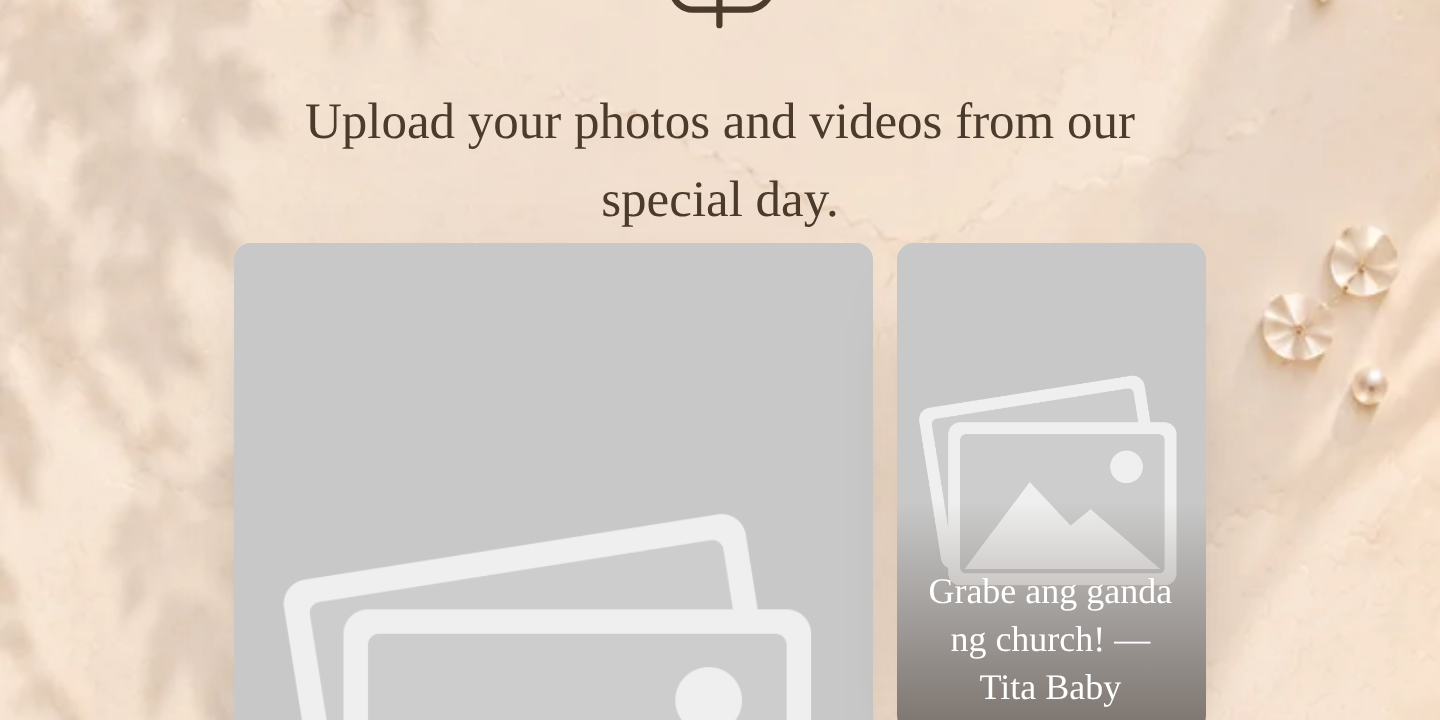
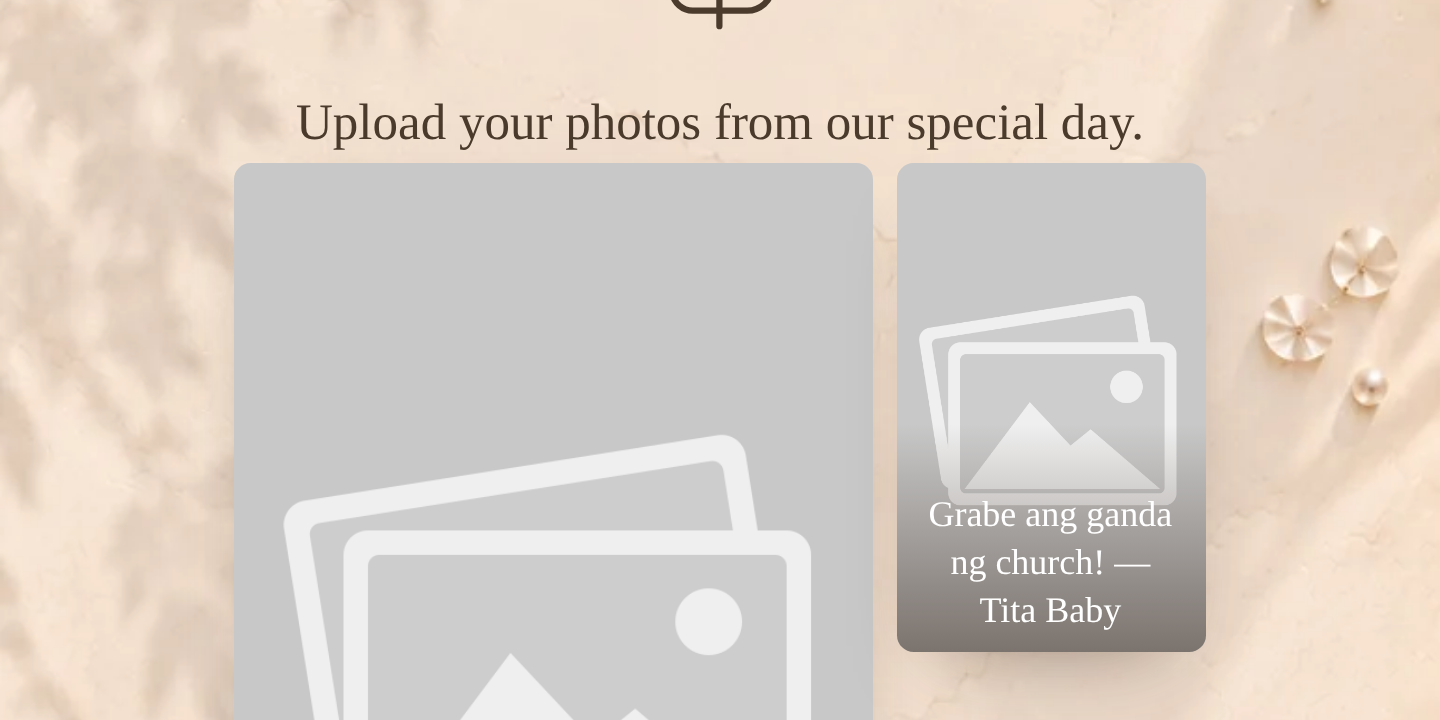
The album says it is photographs, where somebody is deciding to buy it (#142)
Video is not accepted and never was — the storage layer takes JPEG, PNG
and WebP, checked by the file's own first bytes. The word "video" was
removed from the pages that promised it, but nothing said the opposite
where it matters: on the add-on card somebody reads before paying
₱1,000, in the builder where the couple works out what to tell their
guests, and under the file chooser a guest is about to use.

All three say it now, and the guest's says what is taken rather than only
what is not: JPEG, PNG or WebP, up to 10 MB each.

The numbers behind those sentences live in src/lib/album.ts, which the
storage layer, the upload form and the copy all read. Written out
separately they drift, and copy about a limit that has drifted from the
limit is worse than no copy: a guest reads "up to 10 MB", picks a photo
at twelve believing it is fine, and is refused. The guest's sentence
interpolates the real figure rather than repeating it, and a test renders
it in both languages to check no placeholder is left showing.

Why photographs and not video, written down where the next person to ask
will find it: a thirty-second clip is fifty to a hundred megabytes
against a photograph's two, it arrives in whatever the phone recorded —
an iPhone's HEVC will not play on half the devices a guest opens the page
with — and putting that right means a transcoding service and a monthly
bill. The couple's own prenup video is a YouTube or Vimeo link, which
costs nothing to carry.
[…]

diff --git a/invites/tests/photos.test.ts b/invites/tests/photos.test.ts
@@ -1,6 +1,10 @@
 import test from 'node:test';
 import assert from 'node:assert/strict';
 import { albumProblem, guestPhotoSchema, photoLimit } from '../src/lib/photos';
+import { PHOTO_MAX_LABEL, PHOTO_TYPES, PHOTOS_AT_ONCE } from '../src/lib/album';
+import { t } from '../src/lib/copy';
+import { SECTION_BY_KEY } from '../src/lib/sections';
+import { ADDONS } from '../src/lib/addon-catalogue';
 import { defaultContent } from '../src/lib/sections';
 import { hasFeature } from '../src/lib/tiers';
 
@@ -108,4 +112,41 @@ test('an ordinary evening is never refused', () => {
   // 150 guests, a few photos each, all on one wifi, over an hour: the shape the
   // limits exist to allow.
   assert.equal(photoLimit({ guest: 5, ip: 119, invitationHour: 180, invitationTotal: 300 }), null);
+});
+
+test('what the album says it takes is what it takes', () => {
+  // Copy about a limit that has drifted from the limit is worse than no copy:
+  // a guest reads "up to 10 MB", picks a 12 MB photo believing it is fine, and
+  // is refused. So the sentences under the file chooser and in the builder are
+  // checked against the numbers the storage layer actually enforces.
+  for (const lang of ['en', 'tl'] as const) {
+    const accepts = t(lang, 'photos.accepts', { max: PHOTO_MAX_LABEL });
+    assert.ok(accepts.includes(PHOTO_MAX_LABEL), `${lang} names the real size limit`);
+    assert.doesNotMatch(accepts, /\{max\}/, `${lang} leaves no placeholder showing`);
+    assert.match(accepts, /JPEG/i);
+    assert.match(accepts, /PNG/i);
+    assert.match(accepts, /WebP/i);
+    assert.match(accepts, /video/i, `${lang} says video is not taken`);
+  }
+
+  // Every format named is one the storage layer really accepts, and every one
+  // it accepts is named: a guest told "JPEG, PNG or WebP" who owns a HEIC is
+  // owed the same warning as one who owns a clip.
+  assert.deepEqual([...PHOTO_TYPES].sort(), ['image/jpeg', 'image/png', 'image/webp']);
+});
+
+test('the builder tells the couple the same thing, in the same numbers', () => {
+  // They are the ones a guest asks. If the builder and the upload form
+  // disagree, the couple tells their guests something the album will refuse.
+  const photos = SECTION_BY_KEY.photos.description;
+  assert.match(photos, new RegExp(`\\b${PHOTOS_AT_ONCE}\\b`), 'how many at a time');
+  assert.ok(photos.includes(PHOTO_MAX_LABEL), 'how large each may be');
+  assert.match(photos, /not video/i, 'and that video is not taken');
+});
+
+test('the add-on says photographs, where somebody is deciding whether to buy it', () => {
+  const album = ADDONS.find((a) => a.code === 'PHOTO_SHARING');
+  assert.ok(album, 'the album is not in the catalogue');
+  assert.match(album.description, /not video/i);
+  assert.match(album.description, /download/i, 'and that they can keep them afterwards');
 });

diff --git a/invites/src/components/invite/client.tsx b/invites/src/components/invite/client.tsx
@@ -2,6 +2,7 @@
 
 import { useCallback, useEffect, useRef, useState, type MouseEvent, type ReactNode } from 'react';
 import { plateChars } from '@/lib/openings';
+import { PHOTOS_AT_ONCE } from '@/lib/album';
 import type { Attendee } from '@/lib/attendees';
 
 /**
@@ -778,7 +779,7 @@ export function PrintButton({ label }: { label: string }) {
  * respects. It also means a photo that is refused — too large, wrong format —
  * is named on its own instead of failing the whole batch.
  */
-const MAX_AT_ONCE = 20;
+
 
 export function GuestPhotoForm({
   slug,
@@ -790,6 +791,7 @@ export function GuestPhotoForm({
   labels: {
     name: string;
     choose: string;
+    accepts: string;
     caption: string;
     submit: string;
     submitMany: string;
@@ -825,10 +827,10 @@ export function GuestPhotoForm({
 
   function choose(e: React.ChangeEvent<HTMLInputElement>) {
     const picked = Array.from(e.currentTarget.files ?? []);
-    const files = picked.slice(0, MAX_AT_ONCE);
+    const files = picked.slice(0, PHOTOS_AT_ONCE);
     setChosen(files);
     replacePreviews(files);
-    setNote(picked.length > MAX_AT_ONCE ? labels.tooMany : '');
+    setNote(picked.length > PHOTOS_AT_ONCE ? labels.tooMany : '');
     setError('');
   }
 
@@ -919,6 +921,7 @@ export function GuestPhotoForm({
           onChange={choose}
           className="inv-field"
         />
+        <p className="inv-muted mt-1 text-xs">{labels.accepts}</p>
       </div>
       {previews.length > 0 && (
         <ul className={previews.length === 1 ? '' : 'grid grid-cols-3 gap-2'}>

diff --git a/invites/src/lib/album.ts b/invites/src/lib/album.ts
@@ -1,0 +1,29 @@
+/**
+ * What the shared album takes, in one place.
+ *
+ * These three numbers are told to three different people: the storage layer
+ * enforces them, the guest upload form prints them under the file chooser, and
+ * the couple reads them in the builder before they tell their guests anything.
+ * Written out separately they drift, and drifting copy about a limit is how a
+ * guest ends up told their photo is fine when it is about to be refused.
+ *
+ * Photos, not video. That is a decision and not an oversight: a thirty-second
+ * clip from a phone is fifty to a hundred megabytes against a photograph's
+ * two, it arrives in whatever a phone records — an iPhone's HEVC will not play
+ * on half the devices a guest opens the page with — and putting it right means
+ * a transcoding service and a monthly bill. The album is for photographs; the
+ * couple's own prenup video is a YouTube or Vimeo link, which costs nothing to
+ * carry.
+ */
+
+/** JPEG, PNG and WebP, checked by the file's own first bytes rather than its name. */
+export const PHOTO_TYPES = ['image/jpeg', 'image/png', 'image/webp'] as const;
+
+/** The most one photograph may weigh. A phone photo is two to four. */
+export const PHOTO_MAX_BYTES = 10 * 1024 * 1024;
+
+/** How many a guest may pick in one go. */
+export const PHOTOS_AT_ONCE = 20;
+
+/** "10 MB", for the places that say it to somebody. */
+export const PHOTO_MAX_LABEL = `${Math.round(PHOTO_MAX_BYTES / 1024 / 1024)} MB`;

diff --git a/invites/src/lib/sections.ts b/invites/src/lib/sections.ts
@@ -2,6 +2,7 @@ import { MOTIF_MIN, MOTIF_MAX } from './palette';
 import { attireDefaults, gentsItems, ladiesItems, avoidItems, ATTIRES, AVOID_MAX, type AttireItem } from './attire';
 import type { Occasion, Tier } from '@prisma/client';
 import { tierAtLeast, entitled, TIER_LABELS, type FeatureKey } from './tiers';
+import { PHOTOS_AT_ONCE, PHOTO_MAX_LABEL } from './album';
 import { GIFT_PRESETS, INTRO_PRESETS, POLICY_PRESETS, RSVP_NOTE_PRESETS, UNPLUGGED_PRESET, TITLES,
   PARENTS_MESSAGE_EXAMPLES, SPONSORS_BLESSING_EXAMPLES, DEDICATION_EXAMPLES, DEBUTANTE_NOTE_EXAMPLES, HOW_WE_MET_EXAMPLES, PROPOSAL_EXAMPLES,
   type Lang, type Preset } from './copy';
@@ -846,7 +847,7 @@ const SECTION_DEFS: SectionDef[] = [
     label: 'Guest photos',
     labelFor: { CHRISTENING: 'Post-event photos' },
     tl: 'Mga Larawan ng Bisita',
-    description: 'A shared album your guests add to from their phones. You approve each photo before it appears.',
+    description: `A shared album your guests add to from their phones — photographs only, not video. ${PHOTOS_AT_ONCE} at a time, up to ${PHOTO_MAX_LABEL} each, JPEG, PNG or WebP. You approve each photo before it appears, and you can download the album when the day is over.`,
     // Luxury's, with the rest of the day-of half of the service. The section's
     // gate and the photoSharing feature must name the same package: the badge
     // in the builder is drawn from this one and the album itself is opened by

diff --git a/invites/src/lib/copy.ts b/invites/src/lib/copy.ts
@@ -190,6 +190,11 @@ const PHRASES = {
   'photos.thanksMany': { en: 'Salamat! Your photos are on the wall.', tl: 'Salamat! Nasa wall na ang mga larawan mo.' },
   'photos.tooMany': { en: 'Twenty at a time, please — the first twenty are ready to send. You can add the rest after.', tl: 'Dalawampu muna — handa nang ipadala ang unang dalawampu. Puwede mong idagdag ang iba pagkatapos.' },
   'photos.sent': { en: 'sent.', tl: 'ang naipadala.' },
+  // Under the file chooser, so a guest knows before they pick rather than
+  // after they are refused. The numbers in it are pinned to the real ones by a
+  // test — copy about a limit that has drifted from the limit is worse than no
+  // copy at all.
+  'photos.accepts': { en: 'Photos only, not video — JPEG, PNG or WebP, up to {max} each.', tl: 'Mga larawan lang, hindi video — JPEG, PNG o WebP, hanggang {max} bawat isa.' },
   'photos.empty': { en: 'No photos yet — be the first.', tl: 'Wala pang larawan — mauna ka.' },
   'seating.title': { en: 'Your table', tl: 'Ang inyong mesa' },
   'closing.title': { en: 'See you there', tl: 'Kita-kits' },

diff --git a/invites/src/lib/storage.ts b/invites/src/lib/storage.ts
@@ -4,6 +4,7 @@ import { mkdir, open, rm, writeFile } from 'node:fs/promises';
 import { Readable } from 'node:stream';
 import path from 'node:path';
 import { HttpError } from './errors';
+import { PHOTO_MAX_BYTES, PHOTO_TYPES } from './album';
 
 /**
  * Supabase Storage over its REST API — no SDK, and the service-role key never
@@ -16,7 +17,7 @@ import { HttpError } from './errors';
  * served through a one-hour signed link to staff only.
  */
 
-const MAX_BYTES = 10 * 1024 * 1024;
+const MAX_BYTES = PHOTO_MAX_BYTES;
 
 /** MIME type by magic bytes, not by the extension the browser claimed. */
 function sniff(buffer: Buffer): string | null {
@@ -48,7 +49,7 @@ const EXTENSIONS: Record<string, string> = {
   'audio/mp4': 'm4a',
 };
 
-const IMAGE_TYPES = ['image/jpeg', 'image/png', 'image/webp'];
+const IMAGE_TYPES = [...PHOTO_TYPES];
 /** A song file: MP3, or M4A from an iPhone. */
 export const AUDIO_TYPES = ['audio/mpeg', 'audio/mp4'];
 /** The most a song file may weigh — more than a photo: four minutes of MP3 at a good bitrate is six to ten MB. */

diff --git a/invites/src/components/invite/renderer.tsx b/invites/src/components/invite/renderer.tsx
@@ -13,6 +13,7 @@ import { cssVars, googleFontsUrl, isLayout } from '@/lib/theme';
 import { formatDate, formatTime } from '@/lib/datetime';
 import { qrSvg } from '@/lib/qr';
 import { invitationUrl, invitationPath } from '@/lib/app-url';
+import { PHOTO_MAX_LABEL } from '@/lib/album';
 import { Shell, Countdown, RsvpForm, GuestbookForm, GuestPhotoForm, PrintButton, VideoFacade, PageGround, ModeToggle, PeekControls } from './client';
 import { wordsOf, artOf, withWords, CAPIZ_DEFAULT_ART, BABYBLUE_GROUNDS } from '@/lib/design';
 import { STORY_SLOTS, STORY_LABELS, STORY_HEAD, PHOTO_SLOTS, PHOTO_HEAD, slotStyle, labelStyle, captionStyle } from '@/lib/babyblue';
@@ -1388,6 +1389,7 @@ function GuestPhotos({
             labels={{
               name: t(lang, 'rsvp.name'),
               choose: t(lang, 'photos.choose'),
+              accepts: t(lang, 'photos.accepts', { max: PHOTO_MAX_LABEL }),
               caption: t(lang, 'photos.caption'),
               submit: t(lang, 'photos.submit'),
               submitMany: t(lang, 'photos.submitMany'),

diff --git a/invites/src/lib/addon-catalogue.ts b/invites/src/lib/addon-catalogue.ts
@@ -210,7 +210,7 @@ export const ADDONS: AddOnSpec[] = [
     price: 1_000,
     image: '/demo/addon-album.png',
     name: 'Shared album after the day',
-    description: 'Your guests add their photos to your invitation from their phones, and everyone sees the day through everybody else\u2019s eyes. You approve each one before it appears. Included in Luxury.',
+    description: 'Your guests add their photos to your invitation from their phones, and everyone sees the day through everybody else\u2019s eyes. You approve each one before it appears, and you can download the whole album afterwards. Photographs only — not video. Included in Luxury.',
     sortOrder: 10,
   },
   {
